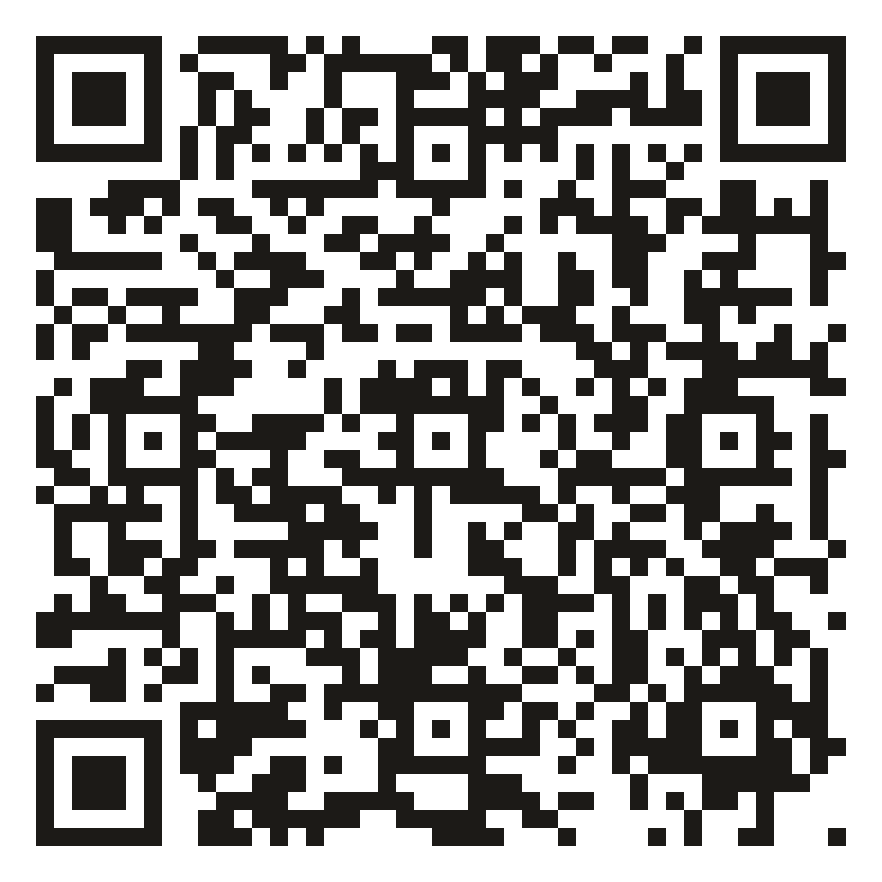
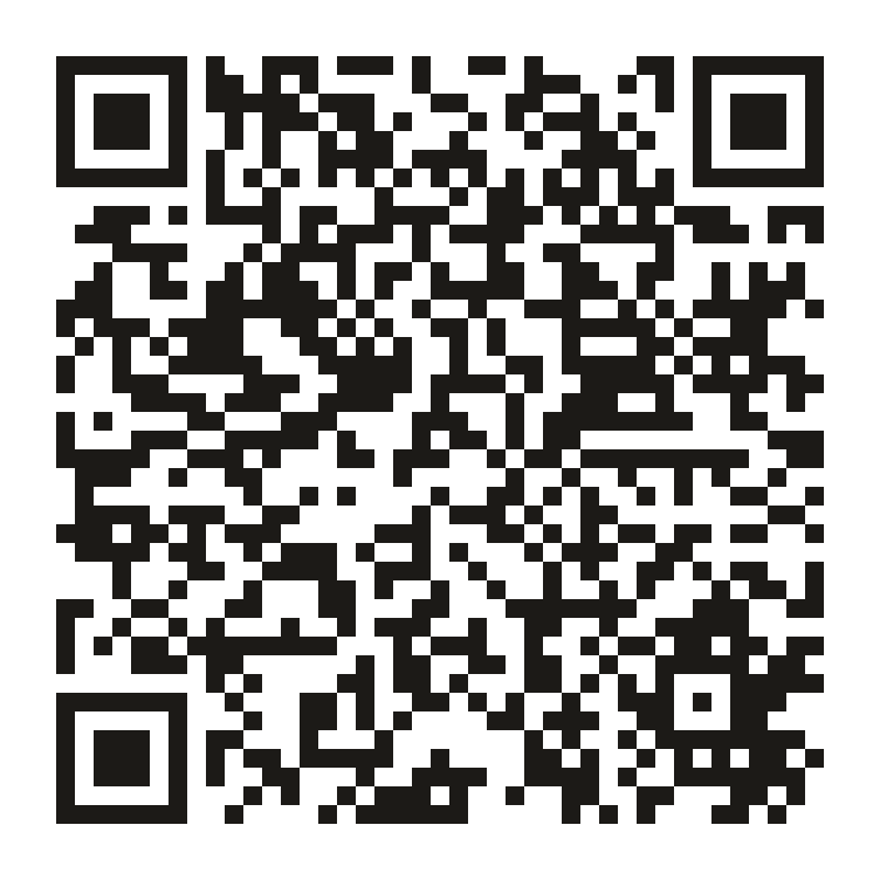
Update QR code to cloud Pages process URL for offline-PC scanning.

diff --git a/share.html b/share.html
@@ -80,21 +80,21 @@
 </head>
 <body>
   <main class="card">
-    <h1>绞胎纹路生成器</h1>
-    <p>手机扫码即可打开 · 当阳峪绞胎瓷器型 + 纹样设计</p>
+    <h1>绞胎全流程定制</h1>
+    <p>手机扫码即可打开 · 云端 Agnes 生图，电脑关机也能用</p>
     <div id="qr" aria-label="二维码">
-      <img src="./qr.png" width="220" height="220" alt="永久二维码：扫码打开绞胎纹路生成器" />
+      <img src="./qr.png" width="220" height="220" alt="二维码：扫码打开绞胎全流程定制" />
     </div>
-    <p class="url" id="urlText">https://shikong163-afk.github.io/jiaotai-pattern-generator/</p>
+    <p class="url" id="urlText">https://jiaotai-pattern-generator.pages.dev/process</p>
     <div class="actions">
-      <a class="primary" id="openApp" href="https://shikong163-afk.github.io/jiaotai-pattern-generator/">打开生成器</a>
-      <a class="ghost" href="https://shikong163-afk.github.io/jiaotai-pattern-generator/process.html">全流程定制</a>
-      <a class="ghost" href="./qr.png" download="绞胎纹路生成器_永久二维码.png">下载二维码</a>
+      <a class="primary" id="openApp" href="https://jiaotai-pattern-generator.pages.dev/process">打开全流程</a>
+      <a class="ghost" href="https://jiaotai-pattern-generator.pages.dev/">纹样生成器</a>
+      <a class="ghost" href="./qr.png" download="绞胎全流程_云端二维码.png">下载二维码</a>
       <button class="ghost" type="button" id="copyBtn">复制链接</button>
     </div>
   </main>
   <script>
-    const appUrl = "https://shikong163-afk.github.io/jiaotai-pattern-generator/";
+    const appUrl = "https://jiaotai-pattern-generator.pages.dev/process";
     document.getElementById("copyBtn").addEventListener("click", async () => {
       try {
         await navigator.clipboard.writeText(appUrl);
